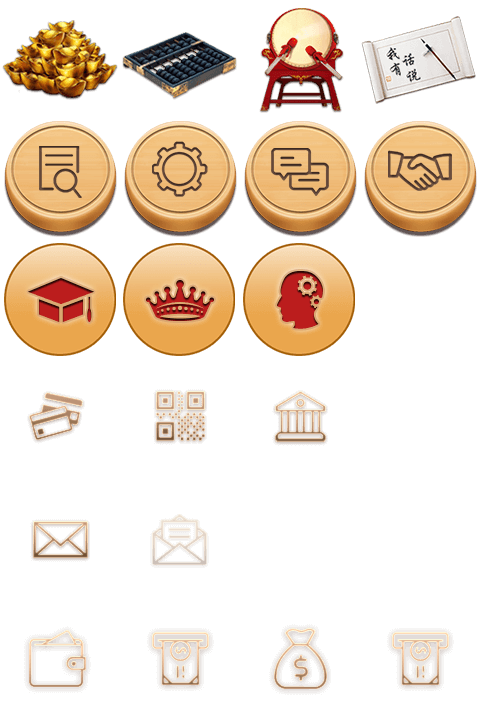
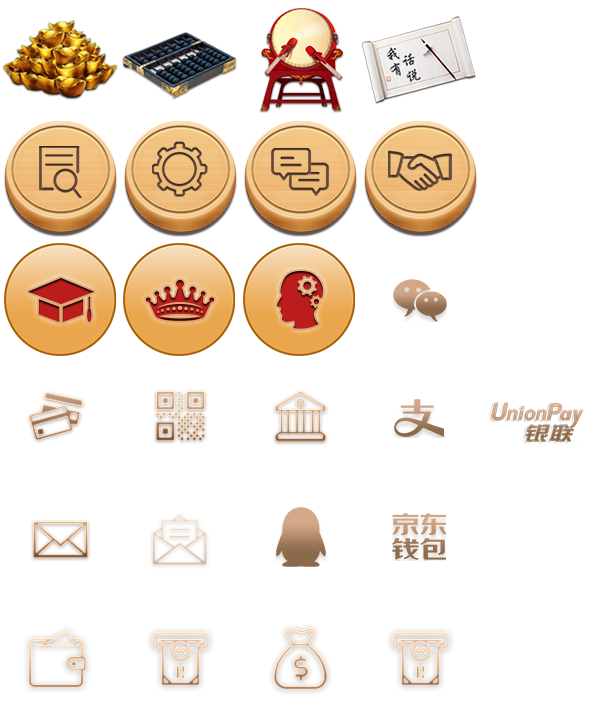
充值页面样式调整

diff --git a/static/frist/css/page.css b/static/frist/css/page.css
@@ -377,19 +377,19 @@ img.fixbot { position: fixed; bottom: 0; margin: 0 auto; width: 100%; left: 0; m
 .icon.icon_filter{background-position: -1.28rem -1.92rem }
 .icon.icon_check{background-position: -0.64rem -1.92rem }
 
-.icon_account  { display: inline-block; vertical-align: middle; width: 1.5rem; 	height: 1.5rem; margin: 0 auto; background-image: url(/static/frist/images/icon_account.png);	 background-size: 6rem auto; }
+.icon_account  { display: inline-block; vertical-align: middle; width: 1.5rem; 	height: 1.5rem; margin: 0 auto; background-image: url(/static/frist/images/icon_account.png);	 background-size: 7.5rem auto; background-position: 0 -4.5rem;}
 
 
-.icon_deposit_net1 {background-image: url(../images/icon_deposit_1.png); background-size: 0.722222rem auto;  background-repeat: no-repeat; 	background-position: center center;	}
-.icon_deposit_net2 {background-image: url(../images/icon_deposit_2.png); background-size: 0.722222rem auto;  background-repeat: no-repeat; 	background-position: center center;	}
-.icon_deposit_net3 {background-image: url(../images/icon_deposit_3.png); background-size: 0.722222rem auto;  background-repeat: no-repeat; 	background-position: center center;	}
-.icon_deposit_net4 {background-image: url(../images/icon_deposit_4.png); background-size: 0.722222rem auto;  background-repeat: no-repeat; 	background-position: center center;	}
-.icon_deposit_net8 {background-image: url(../images/icon_deposit_5.png); background-size: 1.111111rem auto;  background-repeat: no-repeat; 	background-position: center center;	}
+/*.icon_deposit_net1 {background-image: url(../images/icon_deposit_1.png); background-size: 0.722222rem auto;  background-repeat: no-repeat; 	background-position: center center;	}*/
+/*.icon_deposit_net2 {background-image: url(../images/icon_deposit_2.png); background-size: 0.722222rem auto;  background-repeat: no-repeat; 	background-position: center center;	}*/
+/*.icon_deposit_net3 {background-image: url(../images/icon_deposit_3.png); background-size: 0.722222rem auto;  background-repeat: no-repeat; 	background-position: center center;	}*/
+/*.icon_deposit_net4 {background-image: url(../images/icon_deposit_4.png); background-size: 0.722222rem auto;  background-repeat: no-repeat; 	background-position: center center;	}*/
+/*.icon_deposit_net8 {background-image: url(../images/icon_deposit_5.png); background-size: 1.111111rem auto;  background-repeat: no-repeat; 	background-position: center center;	}*/
 
-.icon_account.icon_deposit { background-position-x: 0rem; }
-.icon_account.icon_withdrawals { background-position-x: -1.5rem; }
-.icon_account.icon_promo { background-position-x: -3rem; }
-.icon_account.icon_service { background-position-x: -4.5rem; }
+.icon_account.icon_deposit { background-position: 0rem 0; }
+.icon_account.icon_withdrawals { background-position: -1.5rem 0; }
+.icon_account.icon_promo { background-position: -3rem 0; }
+.icon_account.icon_service { background-position: -4.5rem 0; }
 .icon_account.icon_info_1 { background-position: 0rem -1.5rem; }
 .icon_account.icon_info_2 { background-position: -1.5rem -1.5rem; }
 .icon_account.icon_info_3 { background-position: -3rem -1.5rem; }
@@ -405,6 +405,13 @@ img.fixbot { position: fixed; bottom: 0; margin: 0 auto; width: 100%; left: 0; m
 .icon_account.icon_deposit_5 { background-position: -3rem -6rem; }
 .icon_account.icon_deposit_6 { background-position: -4.5rem -6rem; }
 .icon_account.icon_deposit_7 { background-position: -4.5rem -3rem; }
+.icon_account.icon_deposit_net1{ background-position: -4.5rem -3rem;} /* 微信支付 */
+.icon_account.icon_deposit_net2{ background-position: -4.5rem -4.5rem;} /* 支付宝支付 */
+.icon_account.icon_deposit_net3{ background-position: -3rem -6rem;}/* QQ钱包 */
+.icon_account.icon_deposit_net4{ background-position: -4.5rem -6rem;}/* 京东支付 */
+.icon_account.icon_deposit_net8{ background-position: -6rem -4.5rem;}/* 银联扫码 */
+.icon_account.icon_deposit_net9 {background-position: -3rem -4.5rem;} /* 银行转帐 */
+.icon_account.icon_deposit_net10 { background-position: 3rem 1.5rem; } /* 网银支付(扫码) */
 .icon_account.icon_notice_1 { background-position: 0rem -6rem; } /* 个人消息(未读) */
 .icon_account.icon_notice_2 { background-position: -1.5rem -6rem; } /* 个人消息(已读) */
 .icon_account.icon_ac01 { background-position: 0rem -7.5rem; }
@@ -1121,9 +1128,10 @@ fieldset { display: block; margin: .3rem 0; font-size: .34rem; text-align: left;
 /* -----------------------------------------
 // 充值
 -----------------------------------------*/
-
+.arrow_list_dark li{ float: left; width: 50%; }
+.arrow_list_dark::after{ content: ''; display: table; clear: both;}
 .arrow_list_dark .badge{ background: url(/static/frist/images/logo_bg.png) no-repeat;background-size: 100% 100%;width: 1.5rem;height: 1.5rem; margin-right: 0.2rem; }
-.arrow_list_dark .icon{ float: right; margin-top: 0.45rem;}
+.arrow_list_dark .icon{ float: right; margin-top: 0.45rem; display: none;}
 
 .deposit_area { padding: 0 0.3rem; }
 .pay_content {  }
@@ -1188,7 +1196,7 @@ fieldset { display: block; margin: .3rem 0; font-size: .34rem; text-align: left;
 
 .pay_way > ul > li {  border-top: 1px solid #90573e;   position: relative; }
 
-.pay_way > ul > li:nth-child(3) { border-bottom: 1px solid rgba(255, 255, 255, 0.03); }
+/*.pay_way > ul > li:nth-child(3) { border-bottom: 1px solid rgba(255, 255, 255, 0.03); }*/
 
 .pay_way > ul > li > a { color: #ffc388; display: inline-block; width: 100%; padding: 1em 0;}
 
